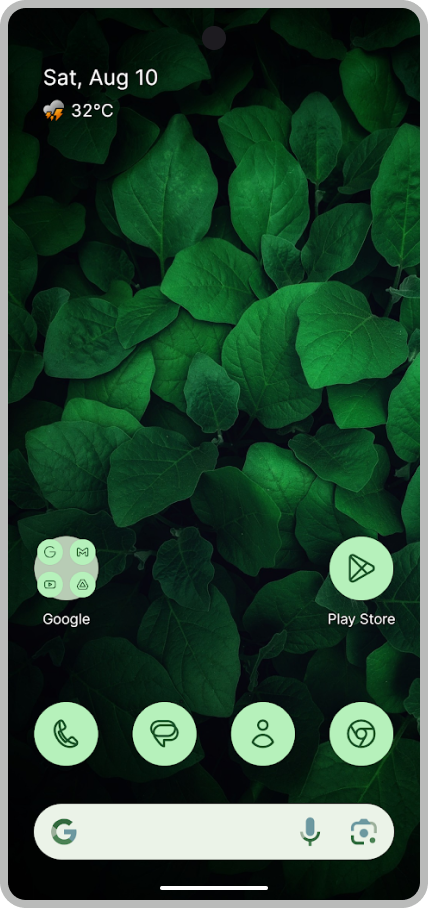
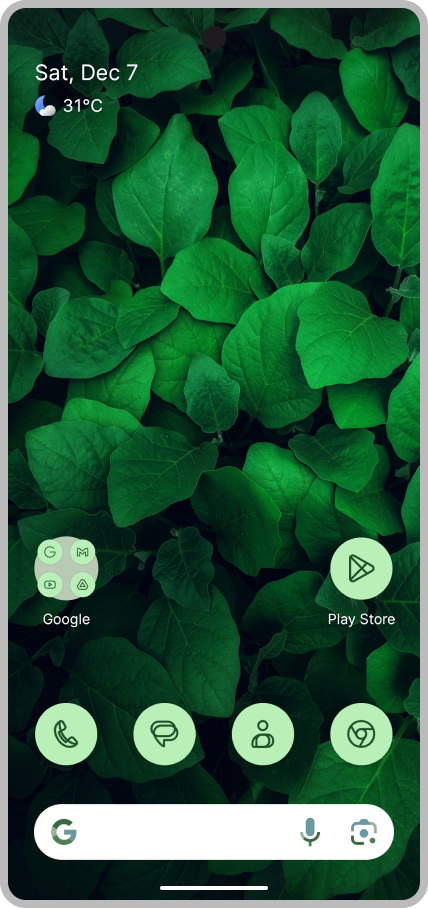
Improve documentation v4 (LC15) (#4973)
* Update information to LC15

* LC15 Screenshot

* Apply suggestion from code-reviewer

* Apply suggestion from code-reviewer

* Installation badges and cert hash

* Update Crowdin branch to 15

* Merge Canary and Development

* Update styling of cert hash

* Update compatlib

* Update for Unified SystemUI

* Improve dev build

* Consistency + Update local fonts

* Consistency with ToC

* Fix awkward

* Link to Smartspacer

* Update visual to LC15

* Merge suggestion from GitHub Copilot Code Review

* Fix typos and grammar in README files (GitHub Copilot Review)

* English Accent Consistency

* Windows Canary Phone Link compression is the worst

* Apply suggestions from code review

* Update release phase, security policy, and versioning

* Update systemUI/README.md

* Update README: Lawnchair 15 alpha to beta

* Use development instead of beta

* Update CONTRIBUTING.md

* Give subtle Google Developer Style guidelines

* Update SECURITY.md

---------

diff --git a/CONTRIBUTING.md b/CONTRIBUTING.md
@@ -6,34 +6,35 @@
     <img alt="" src="docs/assets/lawnchair-round.webp" width="100">
 </picture>
 
-First and foremost, welcome to the **Lawnchair** Contributing Guidelines!
+Welcome to the **Lawnchair** Project, we appreciate your interest in contributing. 
+Feel free to reach out to us on [Telegram](https://t.me/lccommunity) or [Discord](https://discord.com/invite/3x8qNWxgGZ) for any further questions.
 
 ### 💫 Bug reports & feature requests
 
 > [!TIP]
-> We recommend that the Lawnchair [Nightly](https://github.com/LawnchairLauncher/lawnchair/releases/tag/nightly)
-> build be used in your report as they contain the latest changes from Lawnchair.
+> Using Lawnchair [Nightly](https://github.com/LawnchairLauncher/lawnchair/releases/tag/nightly) is recommended for bug reports and feature requests 
+> as it contains the latest changes from Lawnchair.
 
-For [bug reports](https://github.com/LawnchairLauncher/lawnchair/issues/new?assignees=&labels=bug&projects=&template=bug_report.yaml&title=%5BBUG%5D+), please describe the bug in detail to the best of your ability
+For [bug reports](https://github.com/LawnchairLauncher/lawnchair/issues/new?assignees=&labels=bug&projects=&template=bug_report.yaml&title=%5BBUG%5D+), describe the bug in detail to the best of your ability
 with steps on how to reproduce it. If applicable, attach log files.
 
-For [feature requests](https://github.com/LawnchairLauncher/lawnchair/issues/new?assignees=&labels=feature%2Cenhancement&projects=&template=feature_request.yaml&title=%5BFEATURE%5D+), please describe the feature you'd like to see added to Lawnchair.
+For [feature requests](https://github.com/LawnchairLauncher/lawnchair/issues/new?assignees=&labels=feature%2Cenhancement&projects=&template=feature_request.yaml&title=%5BFEATURE%5D+), describe the feature you'd like to see added to Lawnchair.
 If applicable, attach log files.
 
-Please make sure to be civil during the discussion of your contribution as outlined by the [Code of Conduct](CODE_OF_CONDUCT.md).
+Make sure to be civil during the discussion of your contribution as outlined by the [Code of Conduct](CODE_OF_CONDUCT.md).
 
 ### 🌐 Translation
 
 For translation, visit [Lawnchair on Crowdin](https://lawnchair.crowdin.com) and follow these tips:
 
--   When using quotation marks, insert the symbols specific to the target language, as listed in this [this summary table](https://en.wikipedia.org/wiki/Quotation_mark#Summary_table);
+-   When using quotation marks, insert the symbols specific to the target language, as listed in this [summary table](https://en.wikipedia.org/wiki/Quotation_mark#Summary_table);
 -   Some English terminology may have not have commonly-used equivalents in other languages. In such cases, use short descriptive phrases—for example, the equivalent of _bottom row_ for _dock_;
 -   Some languages (e.g. French) have variations of words depending on if it's masculine or feminine (gender-specific); we recommend opting for gender-neutral words instead.
 
 ### 🧑💻 Code
 
-> [!NOTE]
-> For Lawnchair 9 to 13, see the branches with the `9-` to `13-` prefixes respectively.
+> [!TIP]
+> For Lawnchair 9 to 14, see the branches with the `9-` to `14-` prefixes respectively.
 
 For code, it's highly recommended that you use [Android Studio](https://developer.android.com/studio),
 know [Java](https://www.java.com) or preferably [Kotlin](https://kotlinlang.org/), and [Git](https://git-scm.com/).
@@ -51,19 +52,20 @@ run `git submodule update --init --recursive`.
 
 Here are some contribution tips to help you get started:
 
--   Always make sure that you're up-to-date with **Lawnchair** by setting your base branch to `14-dev`.
+-   Always make sure that you're up-to-date with **Lawnchair** by setting your base branch to `15-dev`.
 -   Make sure your code is logical and well-formatted. If using Kotlin, see [“Coding conventions” in the Kotlin documentation](https://kotlinlang.org/docs/coding-conventions.html);
--   [The `lawnchair` package](https://github.com/LawnchairLauncher/lawnchair/tree/14-dev/lawnchair) houses Lawnchair’s own code, whereas [the `src` package](https://github.com/LawnchairLauncher/lawnchair/tree/14-dev/src) includes a clone of the Launcher3 codebase with modifications. Generally, place new files in the former, keeping changes to the latter to a minimum.
+-   [The `lawnchair` package](https://github.com/LawnchairLauncher/lawnchair/tree/15-dev/lawnchair) houses Lawnchair’s own code, whereas [the `src` package](https://github.com/LawnchairLauncher/lawnchair/tree/15-dev/src) includes a clone of the Launcher3 codebase with modifications. Generally, place new files in the former, keeping changes to the latter to a minimum.
 
 #### Additional documentation
 
--   The Lawnchair Wiki ([at Github](https://github.com/LawnchairLauncher/lawnchair/wiki))
--   Lawnchair Visual Guidelines ([README.md](/docs/assets/README.md))
--   Lawnchair Quickstep Compat Lib ([README.md](compatLib/README.md))
--   Lawnchair Preferences Components ([README.md](lawnchair/src/app/lawnchair/ui/preferences/components/README.md))
--   SystemUI ViewCapture ([README.md](systemUIViewCapture/README.md))
--   SystemUI Common ([README.md](systemUICommon/README.md))
--   Prebuilt Library ([README.md](prebuilts/libs/README.md))
+-   [The Lawnchair Wiki](https://github.com/LawnchairLauncher/lawnchair/wiki)
+-   [Lawnchair Visual Guidelines](/docs/assets/README.md)
+-   [Lawnchair Quickstep Compat Library](compatLib/README.md)
+-   [Lawnchair Preferences Components](lawnchair/src/app/lawnchair/ui/preferences/components/README.md)
+-   [SystemUI Module](systemUI/README.md)
+    -   [ViewCapture](systemUI/viewcapture/README.md)
+    -   [Common](systemUI/common/README.md)
+-   [Prebuilt Library](prebuilts/libs/README.md)
 
 #### Versioning scheme
 
@@ -105,6 +107,7 @@ The table below shows release phase used by Lawnchair:
 
 | Status            | Stage |
 | ----------------- | ----- |
+| Development       | 00    |
 | Alpha             | 01    |
 | Beta              | 02    |
 | Release Candidate | 03    |
@@ -125,3 +128,12 @@ Strings `names` in `strings.xml` should follow this format:
 | Preference choice                                | $1_choice         | `off_choice`               | Off                  |                                                                                                                     |
 | Feature string                                   | (feature_name)_$1 | `colorpicker_hsb`          | HSB                  | Feature strings are strings that are confined to a specific feature. Examples include the gesture and color picker. |
 | Launcher string                                  | $1_launcher       | `device_contacts_launcher` | Contacts from device | Strings that are specific to the Launcher area                                                                      |
+
+#### Updating locally stored font listing
+
+Lawnchair uses a locally stored JSON file (`google_fonts.json`) to list available fonts from Google Fonts. This file should be updated periodically or before release to include the latest fonts.
+
+To update Lawnchair's font listing, follow these steps:
+1. Acquire a [Google Fonts Developer API key](https://developers.google.com/fonts/docs/developer_api#APIKey).
+2. Download the JSON file from `https://www.googleapis.com/webfonts/v1/webfonts?key=API_KEY`, replacing `API_KEY` with the API key from step 1.
+3. Replace the content of [`google_fonts.json`](lawnchair/assets/google_fonts.json) with the API response.

diff --git a/README.md b/README.md
@@ -1,4 +1,4 @@
-# Lawnchair 14
+# Lawnchair 15
 
 [![Build debug APK](https://github.com/LawnchairLauncher/lawnchair/actions/workflows/ci.yml/badge.svg)](https://github.com/LawnchairLauncher/lawnchair/actions/workflows/ci.yml)
 [![Build release APK](https://github.com/LawnchairLauncher/lawnchair/actions/workflows/release_update.yml/badge.svg)](https://github.com/LawnchairLauncher/lawnchair/actions/workflows/release_update.yml)
@@ -17,23 +17,67 @@
     <img alt="Google Pixel running Lawnchair Launcher with green wallpaper" src="docs/assets/device-frame.png" width="250px">
 </picture>
 
-Lawnchair is a free, open-source home app for Android. Taking Launcher3 — Android’s default home app — as a starting point, it ports Pixel Launcher features and introduces rich options for customization.
+Lawnchair is a free, open-source home app for Android. Taking Launcher3—Android’s default home app—as a starting point, it ports Pixel Launcher features and introduces rich customization options.
 
-This branch houses the codebase of Lawnchair 14, which is currently in beta and is based on Launcher3 from Android 14. For Lawnchair 9 to 13, see the branches with the `9-` to `13-` prefixes, respectively.
+This branch houses the codebase of Lawnchair 15, which is currently in development and is based on Launcher3 from Android 15. For Lawnchair 9 to 14, see the branches with the `9-` to `14-` prefixes, respectively.
 
 ## Features
 
--   Pixel Launcher-like UI with Material You design
--   At a Glance widget with Smartspacer support
--   QuickSwitch support
--   Global Search support
--   Icons, fonts, and colors customization
+-   **Material You Theming:** Adapts to your wallpaper and system theme.
+-   **At a Glance Widget:** Displays information *at a glance* with support for [Smartspacer](https://github.com/KieronQuinn/Smartspacer) extensions.
+-   **QuickSwitch Support:** Integrates with Android Recents on Android 10 and newer. (requires root)
+-   **Global Search:** Allows quick access to apps, contacts, and web results from the home screen.
+-   **Customization Options:** Provides options to tweak icons, fonts, and colors to your liking.
 -   And more!
 
 ## Download
 
-See the [releases](https://github.com/LawnchairLauncher/lawnchair/releases) section for the latest
-beta build. For development builds with upcoming features & bug fixes, use the nightly builds.
+<p align="left">
+  <a href="https://play.google.com/store/apps/details?id=app.lawnchair.play">
+    <picture>
+      <!-- Avoid image being clickable with slight workaround -->
+      <source media="(prefers-color-scheme: dark)" srcset="docs/assets/badge-google-play.png" height="60">
+      <img alt="Get it on Google Play" src="docs/assets/badge-google-play.png" height="60">
+    </picture>
+  </a>
+  <a href="https://apt.izzysoft.de/fdroid/index/apk/app.lawnchair">
+    <picture>
+      <source media="(prefers-color-scheme: dark)" srcset="docs/assets/badge-izzyondroid.png" height="60">
+      <img alt="Get it on IzzyOnDroid" src="docs/assets/badge-izzyondroid.png" height="60">
+    </picture>
+  </a>
+  <a href="https://apps.obtainium.imranr.dev/redirect?r=obtainium://add/https://github.com/LawnchairLauncher/lawnchair/">
+    <picture>
+      <source media="(prefers-color-scheme: dark)" srcset="docs/assets/badge-obtainium.png" height="60">
+      <img alt="Get it on Obtainium" src="docs/assets/badge-obtainium.png" height="60">
+    </picture>
+  </a>
+    <a href="https://github.com/LawnchairLauncher/lawnchair/releases/latest">
+    <picture>
+      <source media="(prefers-color-scheme: dark)" srcset="docs/assets/badge-github.png" height="60">
+      <img alt="Get it on GitHub" src="docs/assets/badge-github.png" height="60">
+    </picture>
+  </a>
+</p>
+
+Lawnchair on Play Store will install as a different app from other sources. Some features may be restricted to comply with Google Play's publishing rules.
+
+### Development builds
+
+Interested in keeping yourself up-to-date with every Lawnchair development? Try our development build!
+
+These builds offer the latest features and bug fixes at a cost of being slower and introducing new bugs. Ensure that you make backups before installing.
+
+**Download:** [Obtainium][Obtainium link] • [GitHub][GitHub link] • [nightly.link][Nightly link]
+
+### Verification
+
+Verify the integrity of your Lawnchair download using these SHA-256 hashes:
+
+| Source      | SHA-256 Hash                                                                                      |
+| ----------- | ------------------------------------------------------------------------------------------------- |
+| Anywhere    | `74:7C:36:45:B3:57:25:8B:2E:23:E8:51:E5:3C:96:74:7F:E0:AD:D0:07:E5:BA:2C:D9:7E:8C:85:57:2E:4D:C5` |
+| Google Play | `47:AC:92:63:1C:60:35:13:CC:8D:26:DD:9C:FF:E0:71:9A:8B:36:55:44:DC:CE:C2:09:58:24:EC:25:61:20:A7` |
 
 ## Contributing
 
@@ -44,6 +88,11 @@ Please visit the [Lawnchair Contributing Guidelines](CONTRIBUTING.md) for inform
 -   [News](https://t.me/lawnchairci)
 -   [Lawnchair on X (formerly Twitter)](https://x.com/lawnchairapp)
 -   [Website](https://lawnchair.app)
--   [_XDA_ thread](https://forum.xda-developers.com/t/lawnchair-customizable-pixel-launcher.3627137/)
+-   [_XDA_ thread](https://xdaforums.com/t/lawnchair-customizable-pixel-launcher.3627137/)
 
 You can view all our links in the [Lawnchair Wiki](https://github.com/LawnchairLauncher/lawnchair/wiki).
+
+<!-- Download link -->
+[Nightly link]: https://nightly.link/LawnchairLauncher/lawnchair/workflows/ci/15-dev
+[Obtainium link]: https://apps.obtainium.imranr.dev/redirect?r=obtainium://app/%7B%22id%22%3A%22app.lawnchair.debug%22%2C%22url%22%3A%22https%3A%2F%2Fgithub.com%2Flawnchairlauncher%2Flawnchair%22%2C%22author%22%3A%22Lawnchair%20Launcher%22%2C%22name%22%3A%22Lawnchair%20(Debug)%22%2C%22preferredApkIndex%22%3A0%2C%22additionalSettings%22%3A%22%7B%5C%22includePrereleases%5C%22%3Atrue%2C%5C%22fallbackToOlderReleases%5C%22%3Afalse%2C%5C%22filterReleaseTitlesByRegEx%5C%22%3A%5C%22Lawnchair%20Nightly%5C%22%2C%5C%22filterReleaseNotesByRegEx%5C%22%3A%5C%22%5C%22%2C%5C%22verifyLatestTag%5C%22%3Afalse%2C%5C%22dontSortReleasesList%5C%22%3Afalse%2C%5C%22useLatestAssetDateAsReleaseDate%5C%22%3Afalse%2C%5C%22trackOnly%5C%22%3Afalse%2C%5C%22versionExtractionRegEx%5C%22%3A%5C%22%5C%22%2C%5C%22matchGroupToUse%5C%22%3A%5C%22%5C%22%2C%5C%22versionDetection%5C%22%3Afalse%2C%5C%22releaseDateAsVersion%5C%22%3Atrue%2C%5C%22useVersionCodeAsOSVersion%5C%22%3Afalse%2C%5C%22apkFilterRegEx%5C%22%3A%5C%22%5C%22%2C%5C%22invertAPKFilter%5C%22%3Afalse%2C%5C%22autoApkFilterByArch%5C%22%3Atrue%2C%5C%22appName%5C%22%3A%5C%22%5C%22%2C%5C%22shizukuPretendToBeGooglePlay%5C%22%3Afalse%2C%5C%22exemptFromBackgroundUpdates%5C%22%3Afalse%2C%5C%22skipUpdateNotifications%5C%22%3Afalse%2C%5C%22about%5C%22%3A%5C%22Lawnchair%20is%20a%20free%2C%20open-source%20home%20app%20for%20Android.%20(NOTE%3A%20This%20is%20the%20debug%20version%20of%20Lawnchair%2C%20for%20the%20beta%2Fstable%20versions%20see%20%5C%5C%5C%22Lawnchair%5C%5C%5C%22)%5C%22%7D%22%7D
+[GitHub link]: https://github.com/LawnchairLauncher/lawnchair/releases/tag/nightly

diff --git a/SECURITY.md b/SECURITY.md
@@ -3,7 +3,7 @@
 ## Supported Versions
 
 > [!WARNING]
-> Lawnchair v2 (Play Store version) is **unsupported**. Use the newer versions instead.
+> [Lawnchair Legacy](https://play.google.com/store/apps/details?id=ch.deletescape.lawnchair.plah) is **unsupported**. Use the newer versions instead.
 > See [this FAQ page](https://lawnchair.app/faq#do-you-still-support-the-play-store-version) for additional information.
 
 The latest version of Lawnchair is the only supported version.
@@ -11,12 +11,13 @@ The latest version of Lawnchair is the only supported version.
 | Version        | Supported          |
 | -------------- | ------------------ |
 | Nightly build  | :white_check_mark: |
-| 14             | :white_check_mark: |
+| 15             | :white_check_mark: |
+| 14             | :x:                |
 | 13             | :x:                |
 | 12.1           | :x:                |
 | 12             | :x:                |
 | 11             | :x:                |
-| Older (legacy) | :x:                |
+| Older (Legacy) | :x:                |
 
 ## Reporting Security issues
 
@@ -24,7 +25,7 @@ We appreciate your efforts to responsibly disclose your findings and will make e
 acknowledge your contributions.
 
 To report an issue, please file a [security advisory](https://github.com/LawnchairLauncher/lawnchair/security/advisories/new)
-or contact a developer (can be found in the about page of the app) in Telegram or Discord and
-state your security vulnerability starting with the words "**SECURITY**".
+or contact a developer (can be found in the about page of the app) in [Telegram](https://t.me/lccommunity) or [Discord](https://discord.com/invite/3x8qNWxgGZ) and
+state your security vulnerability starting with the words "**SECURITY**"
 
-We'll endeavour to respond quickly, and will keep you updated throughout the process.
+We'll endeavor to respond quickly, and will keep you updated throughout the process.

diff --git a/systemUI/README.md b/systemUI/README.md
@@ -1,3 +1,5 @@
 # SystemUI Module
 
-https://android.googlesource.com/platform/frameworks/base/+/refs/heads/main/packages/SystemUI/
+This directory contains all of the required SystemUI modules. Some examples of modules include `Common`, which serves as a helper for other SystemUI modules, and `Unfold`, which handles devices with hinges.
+
+Upstream source code: https://android.googlesource.com/platform/frameworks/base/+/refs/heads/main/packages/SystemUI/

diff --git a/compatLib/README.md b/compatLib/README.md
@@ -12,3 +12,4 @@ refers to the compatibility code for that specific Android version.
 | compatLibVS | 12              |
 | compatLibVT | 13              |
 | compatLibVU | 14              |
+| compatLibVV | 15              |
